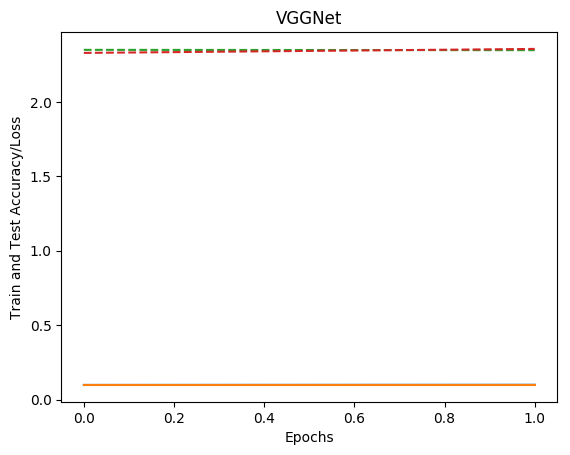
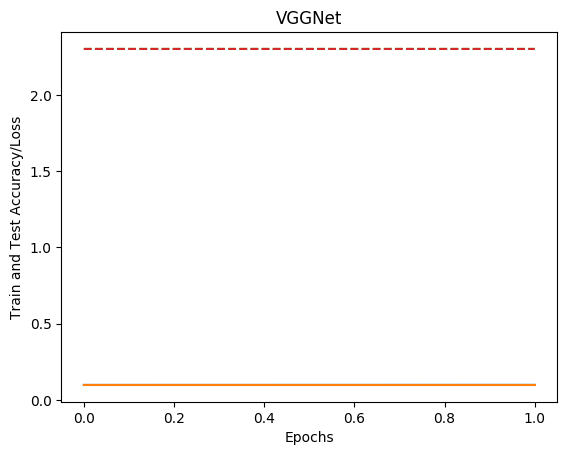
Changes to vgg

diff --git a/cifar10_vgg.py b/cifar10_vgg.py
@@ -17,12 +17,12 @@ from keras.layers import Flatten, Dense, Dropout, Activation
 from keras.layers import Conv2D, MaxPooling2D, ZeroPadding2D
 from keras.optimizers import SGD
 import cv2, numpy as np
+import scipy
 
-now = time.time()
 
 batch_size = 32
 num_classes = 10
-epochs = 2
+epochs = 25
 data_augmentation = True
 
 # input image dimensions
@@ -42,7 +42,7 @@ y_test = keras.utils.to_categorical(y_test, num_classes)
 
 model = Sequential()
 
-model.add(ZeroPadding2D((1,1), input_shape=x_train.shape[1:]))
+model.add(ZeroPadding2D((1,1), input_shape=(32,32,3)))
 model.add(Conv2D(64, (3, 3)))
 model.add(Activation('relu'))
 model.add(ZeroPadding2D((1,1)))
@@ -101,16 +101,35 @@ model.add(Dropout(0.5))
 model.add(Dense(num_classes))
 model.add(Activation('softmax'))
 
-sgd = SGD(lr=0.01, decay=1e-5, momentum=0.9, nesterov=True)
-adam = keras.optimizers.Adam(lr=0.1)
+sgd = SGD(lr=0.0005, decay=1e-5, momentum=0.9, nesterov=True)
+adam = keras.optimizers.Adam(lr=0.01)
 model.compile(loss='categorical_crossentropy', optimizer=sgd, metrics=['accuracy'])
 
+now = time.time()
+
+'''
+resized_x_train = []
+resized_x_test = []
 # Normalize
+#for i in range(len(x_train)):
+for i in range(2):
+    resized_x_train.append( scipy.misc.imresize(x_train[i], (224, 224)).astype('float32') )
+#for i in range(len(x_test)):
+for i in range(2):
+    resized_x_test.append( scipy.misc.imresize(x_test[i], (224, 224)).astype('float32') )
+
+print("Time Elapsed to resize:", time.time() - now)
+
+'''
 x_train = x_train.astype('float32')
 x_test = x_test.astype('float32')
+'''
+print(x_train[0], resized_x_train[0])
+x_train = resized_x_train
+x_test = resized_x_test
+'''
 x_train /= 255
 x_test /= 255
-
 
 datagen = ImageDataGenerator(
         featurewise_center=False,  # set input mean to 0 over the dataset
@@ -122,7 +141,7 @@ datagen = ImageDataGenerator(
         width_shift_range=0.1,  # randomly shift images horizontally (fraction of total width)
         height_shift_range=0.1,  # randomly shift images vertically (fraction of total height)
         horizontal_flip=True,  # randomly flip images
-        vertical_flip=False)  # randomly flip images
+        vertical_flip=False)   # randomly flip images  
 
 # Compute quantities required for featurewise normalization
 # (std, mean, and principal components if ZCA whitening is applied).
@@ -150,4 +169,3 @@ plt.ylabel('Train and Test Accuracy/Loss')
 plt.xlabel('Epochs')
 fig.savefig('graph.png', bbox_inches='tight')
 
-print("Time Elapsed:", time.time() - now)
